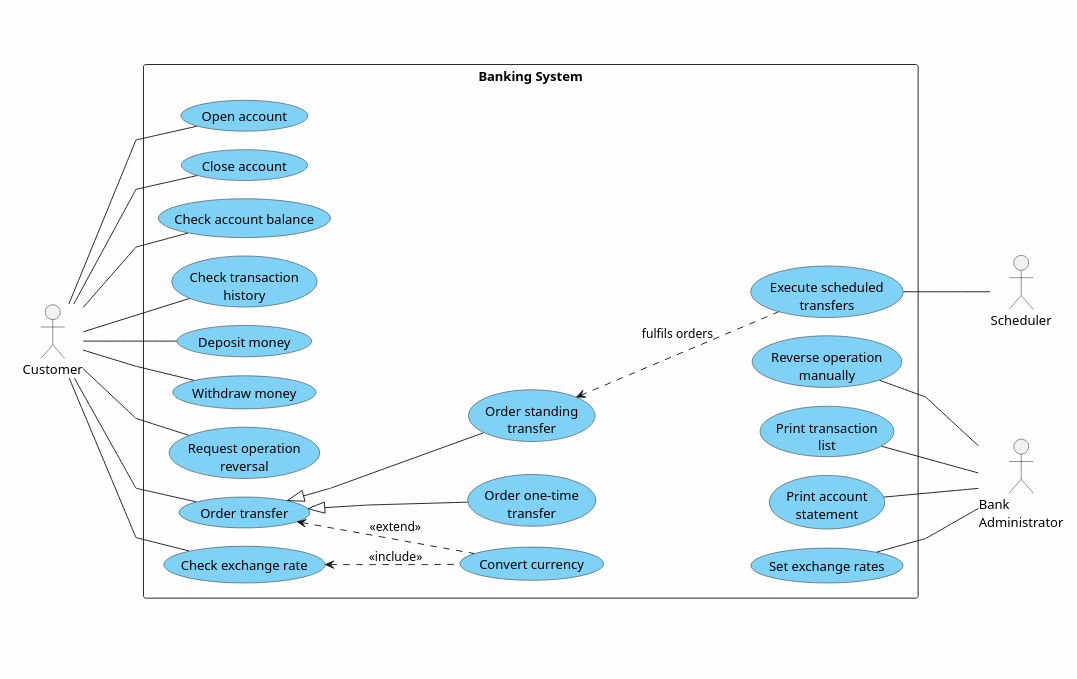
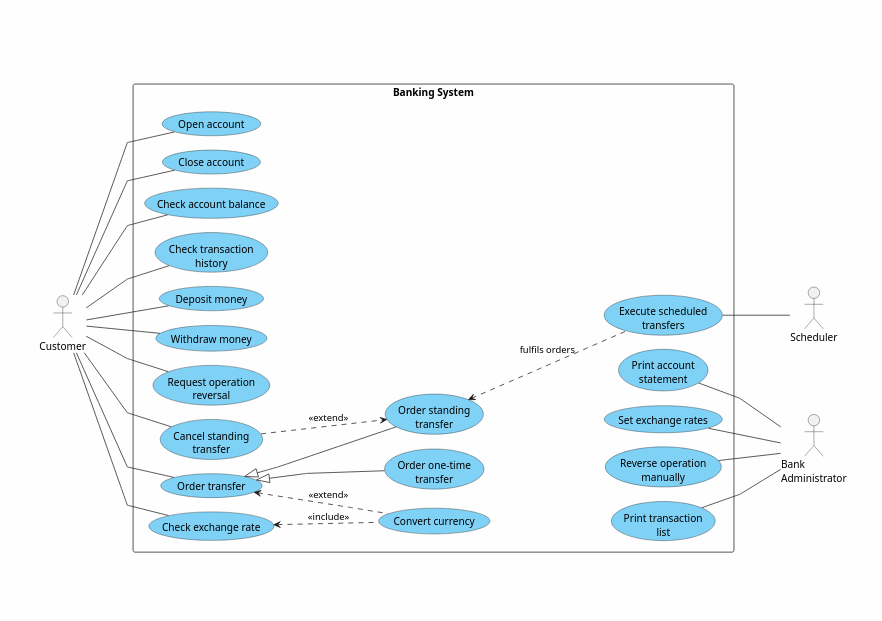
Add standing transfers cancellation in use_case diagram

Changed region(s): [[0.0306, 0.0918, 0.9796, 0.9179], [0.8878, 0.4589, 0.9796, 0.5507], [0.5816, 0.5507, 0.6429, 0.5813]]

diff --git a/docs/uml/README.md b/docs/uml/README.md
@@ -1,0 +1,1 @@
+I used https://plantuml.com/ for this diagram.
